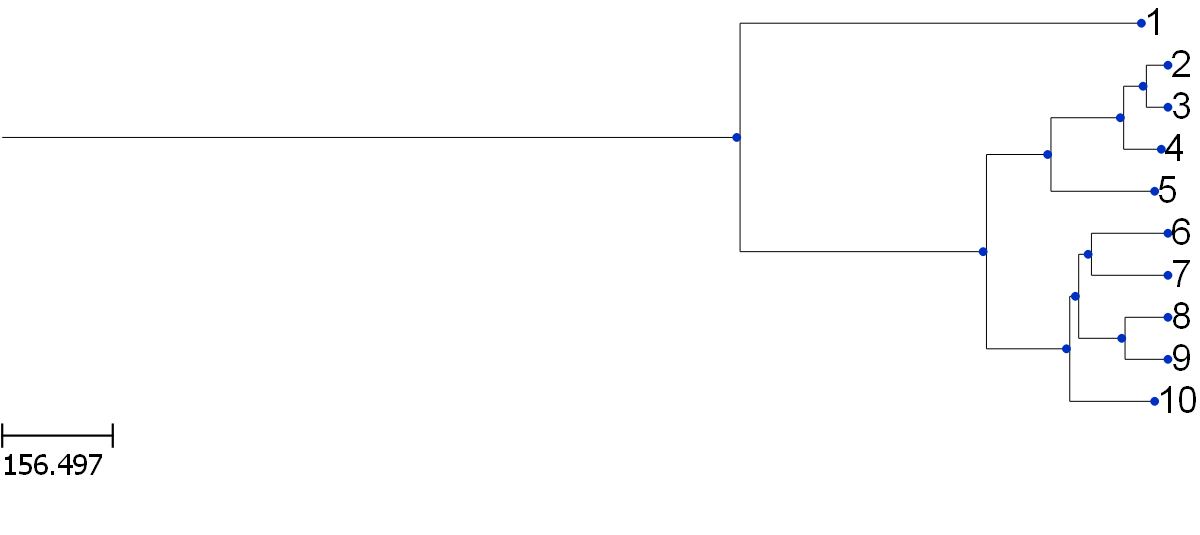
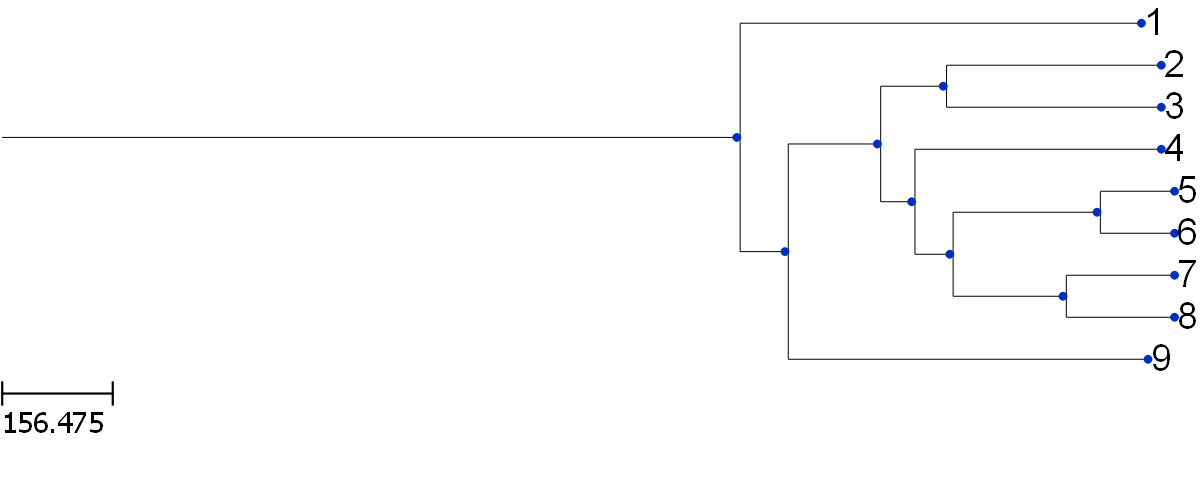
Initial commit

diff --git a/static/script_phylo.js b/static/script_phylo.js
@@ -539,30 +539,15 @@ function corrigerQuiz() {
 function voirSolution() {
 
     let html =
-        "<h3>Solution</h3>";
+        "<h3>Arbre corrigé</h3>";
 
-    for (const numero in mappingCourant) {
+    html +=
+        "<img src='/static/solution.png?t=" +
+        Date.now() +
+        "' style='max-width:100%;border:1px solid #000'>";
 
-        const taxid =
-            mappingCourant[numero];
-
-        const e =
-            especes[taxid];
-
-        if (!e) continue;
-
-        html +=
-            "<b>" +
-            numero +
-            "</b> → " +
-            e.commonName +
-            " (" +
-            e.latinName +
-            ")" +
-            "<br>";
-    }
-
-    document.getElementById("solution")
+    document
+        .getElementById("solution")
         .innerHTML = html;
 }
 

diff --git a/templates/Phylo.html b/templates/Phylo.html
@@ -129,6 +129,7 @@
 
     <script src="https://cdn.jsdelivr.net/gh/SmitsP/phyloCanvas/jsphylosvg-min.js"></script>
 
+    <img src="/static/solution.png?t=" + Date.now()>
 </body>
 
 </html>

diff --git a/prune.py b/prune.py
@@ -3,6 +3,10 @@ import json
 
 from ete3 import Tree, TreeStyle
 
+# =========================
+# Arguments
+# =========================
+
 parser = argparse.ArgumentParser()
 
 parser.add_argument("-i", "--input", required=True)
@@ -10,22 +14,37 @@ parser.add_argument("-o", "--output", required=True)
 parser.add_argument("-t", "--taxa", nargs="+", required=True)
 
 args = parser.parse_args()
-# On charge l'arbre
+
+# =========================
+# Chargement arbre
+# =========================
+
 tree = Tree(args.input, format=1)
 
 existing = set(tree.get_leaf_names())
-# On transorme "A,B,C,D" en "A","B","C","D"
+
 keep = [x for x in args.taxa if x in existing]
 
 if len(keep) == 0:
     raise ValueError(
         "Aucun taxon valide trouvé dans l'arbre"
     )
-# On coupe
+
+# =========================
+# Prune
+# =========================
+
 tree.prune(
     keep,
     preserve_branch_length=True
 )
+
+# copie AVANT renommage
+solution_tree = tree.copy()
+
+# =========================
+# Equivalences
+# =========================
 
 equivalents = {}
 
@@ -51,6 +70,10 @@ for node in tree.traverse():
         equivalents.setdefault(a, []).append(b)
         equivalents.setdefault(b, []).append(a)
 
+# =========================
+# Mapping numéro -> taxid
+# =========================
+
 mapping = {}
 
 for i, leaf in enumerate(
@@ -61,6 +84,10 @@ for i, leaf in enumerate(
     mapping[str(i)] = leaf.name
 
     leaf.name = str(i)
+
+# =========================
+# Sauvegarde mapping
+# =========================
 
 with open(
     "static/mapping.json",
@@ -75,6 +102,9 @@ with open(
         indent=4
     )
 
+# =========================
+# Sauvegarde équivalences
+# =========================
 
 with open(
     "static/equivalents.json",
@@ -88,18 +118,70 @@ with open(
         ensure_ascii=False,
         indent=4
     )
-# On sauvegarde
+
+# =========================
+# Charger les noms
+# =========================
+
+try:
+
+    with open(
+        "static/especes.json",
+        "r",
+        encoding="utf-8"
+    ) as f:
+
+        noms = json.load(f)
+
+except Exception:
+
+    noms = {}
+
+# =========================
+# Remplacer TaxID par nom
+# =========================
+
+for leaf in solution_tree.iter_leaves():
+
+    taxid = leaf.name
+
+    if taxid in noms:
+
+        leaf.name = noms[taxid]
+
+# =========================
+# Sauvegarde nwk
+# =========================
+
 tree.write(
     outfile=args.output,
     format=1
 )
 
-ts = TreeStyle()
+# =========================
+# Style
+# =========================
 
+ts = TreeStyle()
 ts.show_leaf_name = True
+
+# =========================
+# Arbre quiz
+# =========================
 
 tree.render(
     "static/tree.png",
+    w=1200,
+    units="px",
+    tree_style=ts
+)
+
+# =========================
+# Arbre solution
+# =========================
+
+solution_tree.render(
+    "static/solution.png",
     w=1200,
     units="px",
     tree_style=ts

diff --git a/create_especes_json.py b/create_especes_json.py
@@ -1,0 +1,28 @@
+import csv
+import json
+
+mapping = {}
+
+with open(
+    r"C:\Users\pablo\Downloads\species_taxonomy_with_ott.csv",
+    encoding="utf-8"
+) as f:
+    reader = csv.DictReader(f)
+
+    for row in reader:
+        mapping[row["NCBI Tax ID"]] = row["Nom commun"]
+
+with open(
+    "static/especes.json",
+    "w",
+    encoding="utf-8"
+) as f:
+
+    json.dump(
+        mapping,
+        f,
+        ensure_ascii=False,
+        indent=4
+    )
+
+print("especes.json créé")